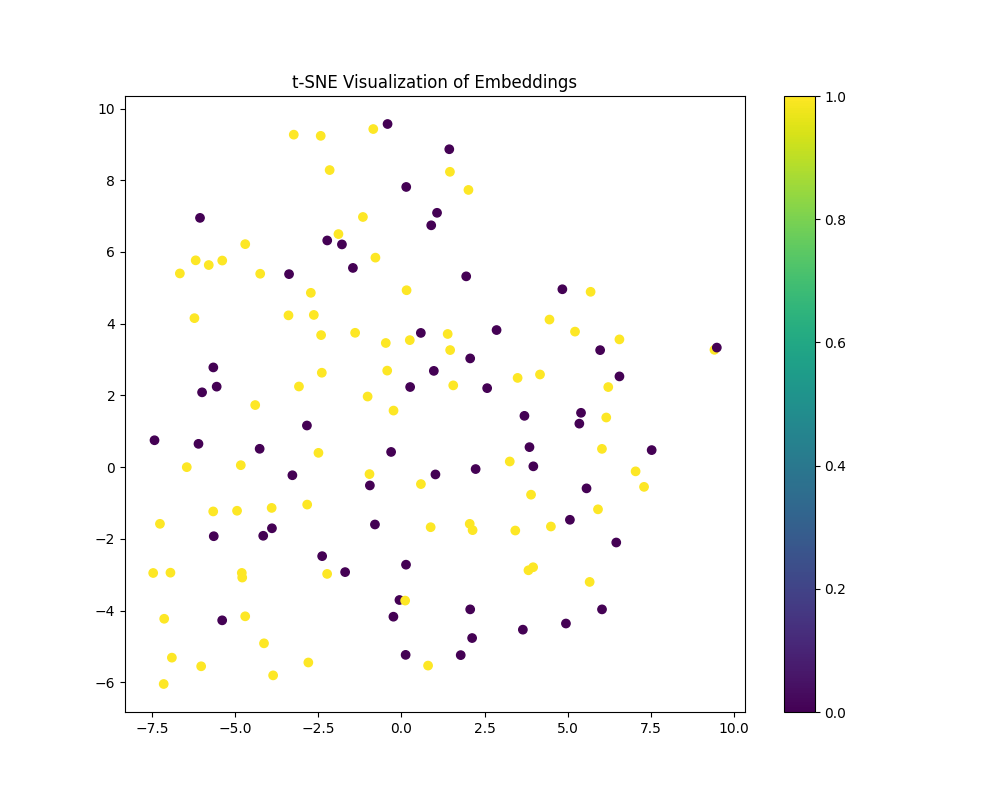
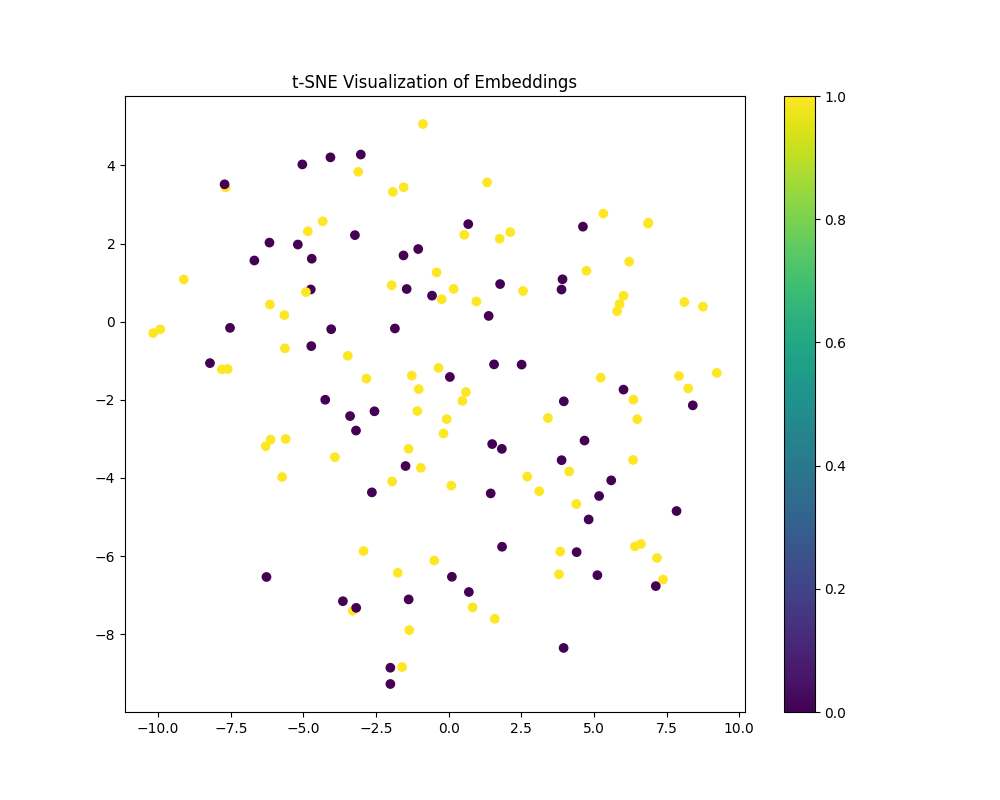
Trying L2 normalization on embeddings for t-SNE and simpler head.

diff --git a/src/models/ContrastiveLearning.py b/src/models/ContrastiveLearning.py
@@ -41,13 +41,13 @@ class ProjectionHead(nn.Module):
     def forward(self, x):
         x = self.fc1(x)
         x = self.bn1(x)
-        x = F.relu(x)
+        x = F.gelu(x)
         x = self.dropout1(x)
 
         residual = x
         x = self.fc2(x)
         x = self.bn2(x)
-        x = F.relu(x)
+        x = F.gelu(x)
         x = self.dropout2(x)
         x += residual
 
@@ -56,12 +56,29 @@ class ProjectionHead(nn.Module):
 
         return x
     
+class SimplerHead(nn.Module):
+    def __init__(self, input_dim, projection_dim, hidden_dim=256):
+        super(SimplerHead, self).__init__()
+        self.fc = nn.Linear(input_dim, hidden_dim)
+        self.bn = nn.BatchNorm1d(hidden_dim)
+        self.fc2 = nn.Linear(hidden_dim, projection_dim)
+        self.layer_norm = nn.LayerNorm(projection_dim)
+    
+    def forward(self, x):
+        x = self.fc(x)
+        x = self.bn(x)
+        x = F.relu(x)
+        x = self.fc2(x)
+        x = self.layer_norm(x)
+        return x
+    
+
 # Contrastive learning model
 class ContrastiveModel(nn.Module):
     def __init__(self, input_size, hidden_size, output_size, projection_dim):
         super(ContrastiveModel, self).__init__()
         self.encoder = FeatureExtractor(input_size, hidden_size, output_size)
-        self.projection = ProjectionHead(output_size, projection_dim)
+        self.projection = SimplerHead(output_size, projection_dim)
 
     def forward(self, x):
         features = self.encoder(x)
@@ -224,6 +241,7 @@ def evaluate_encoder(model, dataloader, device):
     """Plotting embeddings using t-SNE"""
     from sklearn.manifold import TSNE
     import matplotlib.pyplot as plt
+    from sklearn.preprocessing import normalize
 
     # Use unaugmented test data
     model.eval()
@@ -238,7 +256,9 @@ def evaluate_encoder(model, dataloader, device):
             labels.append(y.cpu().numpy())
 
     tsne = TSNE(n_components=2, perplexity=30, random_state=42)
-    embeddings_2d = tsne.fit_transform(np.concatenate(embeddings))
+    embeddings = np.concatenate(embeddings)
+    embeddings = normalize(embeddings, axis=1)
+    embeddings_2d = tsne.fit_transform(embeddings)
     labels = np.concatenate(labels)
 
     plt.figure(figsize=(10, 8))

diff --git a/src/main.py b/src/main.py
@@ -69,13 +69,15 @@ def main():
     return accuracy
 
 if __name__ == "__main__":
-    # Modified the current version of main() to show show t-SNE graph
+    visualize_flag = False
     main()
 
-    # accuracies = []
-    # for i in range(5):
-    #     accuracy = main()
-    #     accuracies.append(accuracy)
+    # True is training model
+    if visualize_flag:
+        accuracies = []
+        for i in range(5):
+            accuracy = main()
+            accuracies.append(accuracy)
 
-    # print(f"Average Accuracy: {np.mean(accuracies):.4f}")
-    # print(f"Standard Deviation: {np.std(accuracies):.4f}")
+        print(f"Average Accuracy: {np.mean(accuracies):.4f}")
+        print(f"Standard Deviation: {np.std(accuracies):.4f}")
